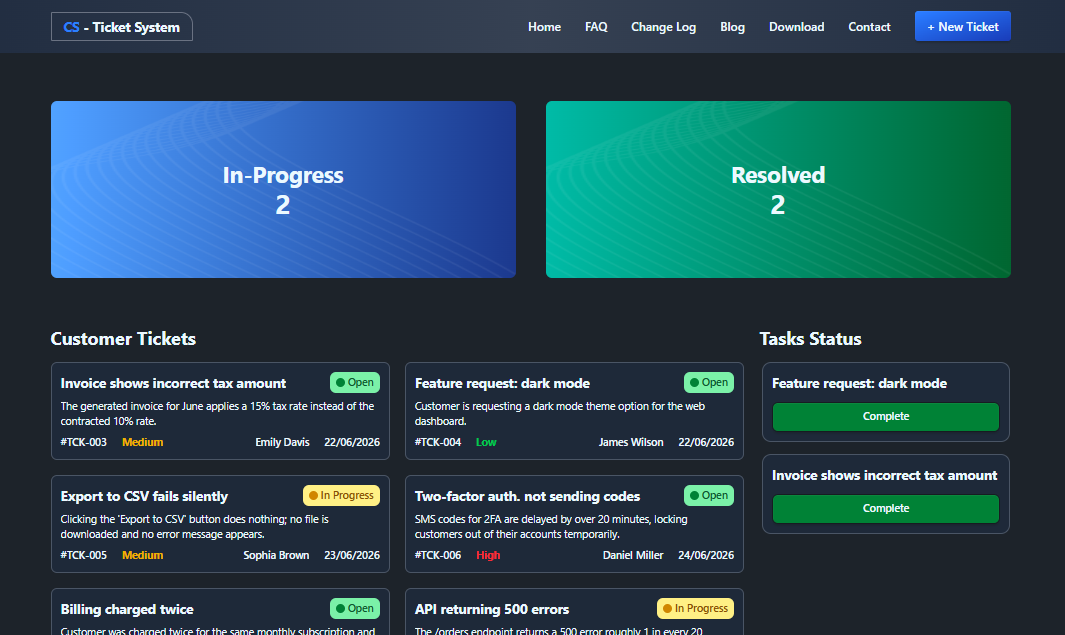
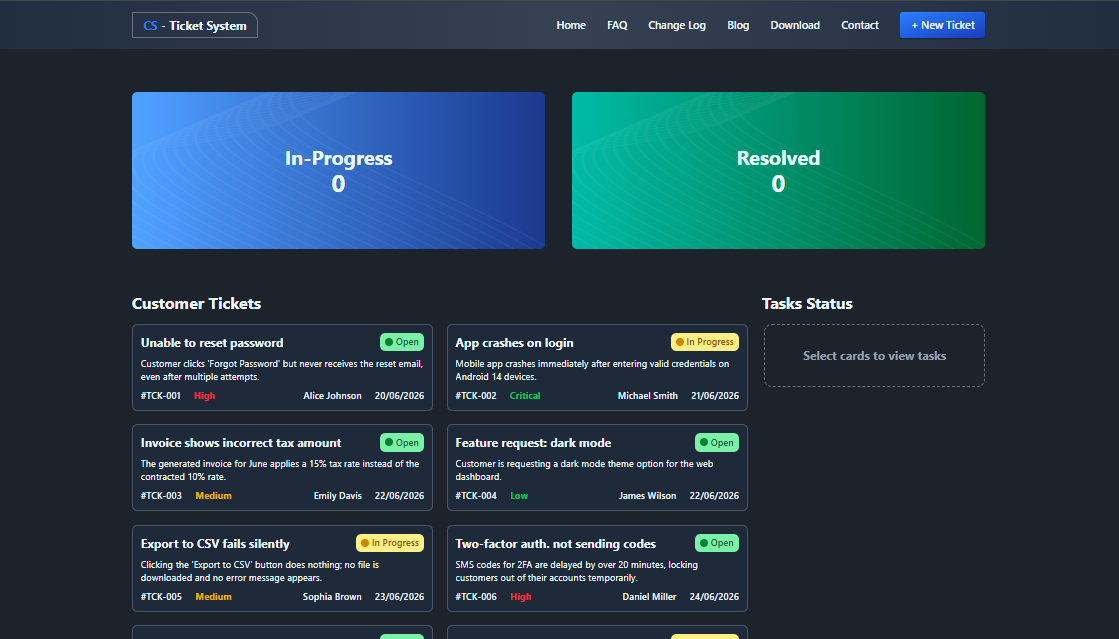
image reshaped

diff --git a/src/components/Project-Card/Project-card.jsx b/src/components/Project-Card/Project-card.jsx
@@ -66,7 +66,7 @@ const ProjectCard = ({ project }) => {
         </div>
 
         {/* Project Image */}
-        <div className="relative h-[260px] md:h-full overflow-hidden">
+        <div className="relative min-h-[260px] md:h-full overflow-hidden">
           <img
             src={project.image}
             alt={`${project.name} project preview`}
